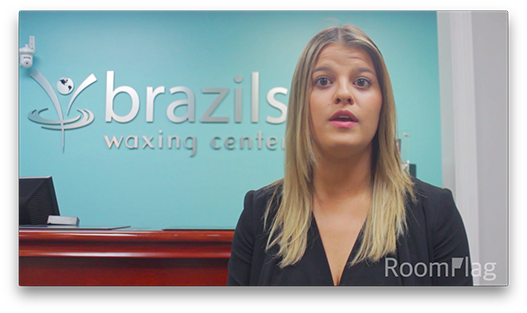
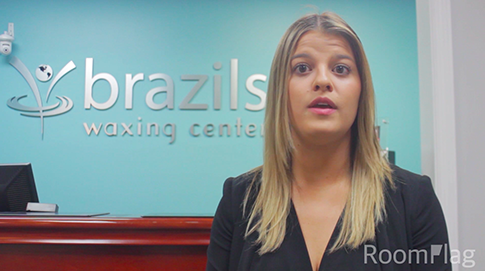
removed shadow from brazils.png, gave it a trim

diff --git a/features.html b/features.html
@@ -389,7 +389,7 @@
                 <div class="row">
                     <div class="image-container col-sm-6 col-xs-12 pull-left">
                         <div>
-                            <img src="img/brazils.png" width="100%" />
+                            <img src="img/brazils.png" width="100%" class="darkGlow" />
                         </div>
                     </div>
                     <div class="col-sm-6 col-xs-12 content pad0 pad-bottom0 margin-top0">

diff --git a/index.html b/index.html
@@ -234,7 +234,7 @@
                 <div class="row">
                     <div class="image-container col-sm-6 col-xs-12 pull-left">
                         <div>
-                            <img src="img/brazils.png" width="100%" />
+                            <img src="img/brazils.png" width="100%" class="darkGlow" />
                         </div>
                     </div>
                     <div class="col-sm-6 col-xs-12 content pad0 pad-bottom0 margin-top0">
